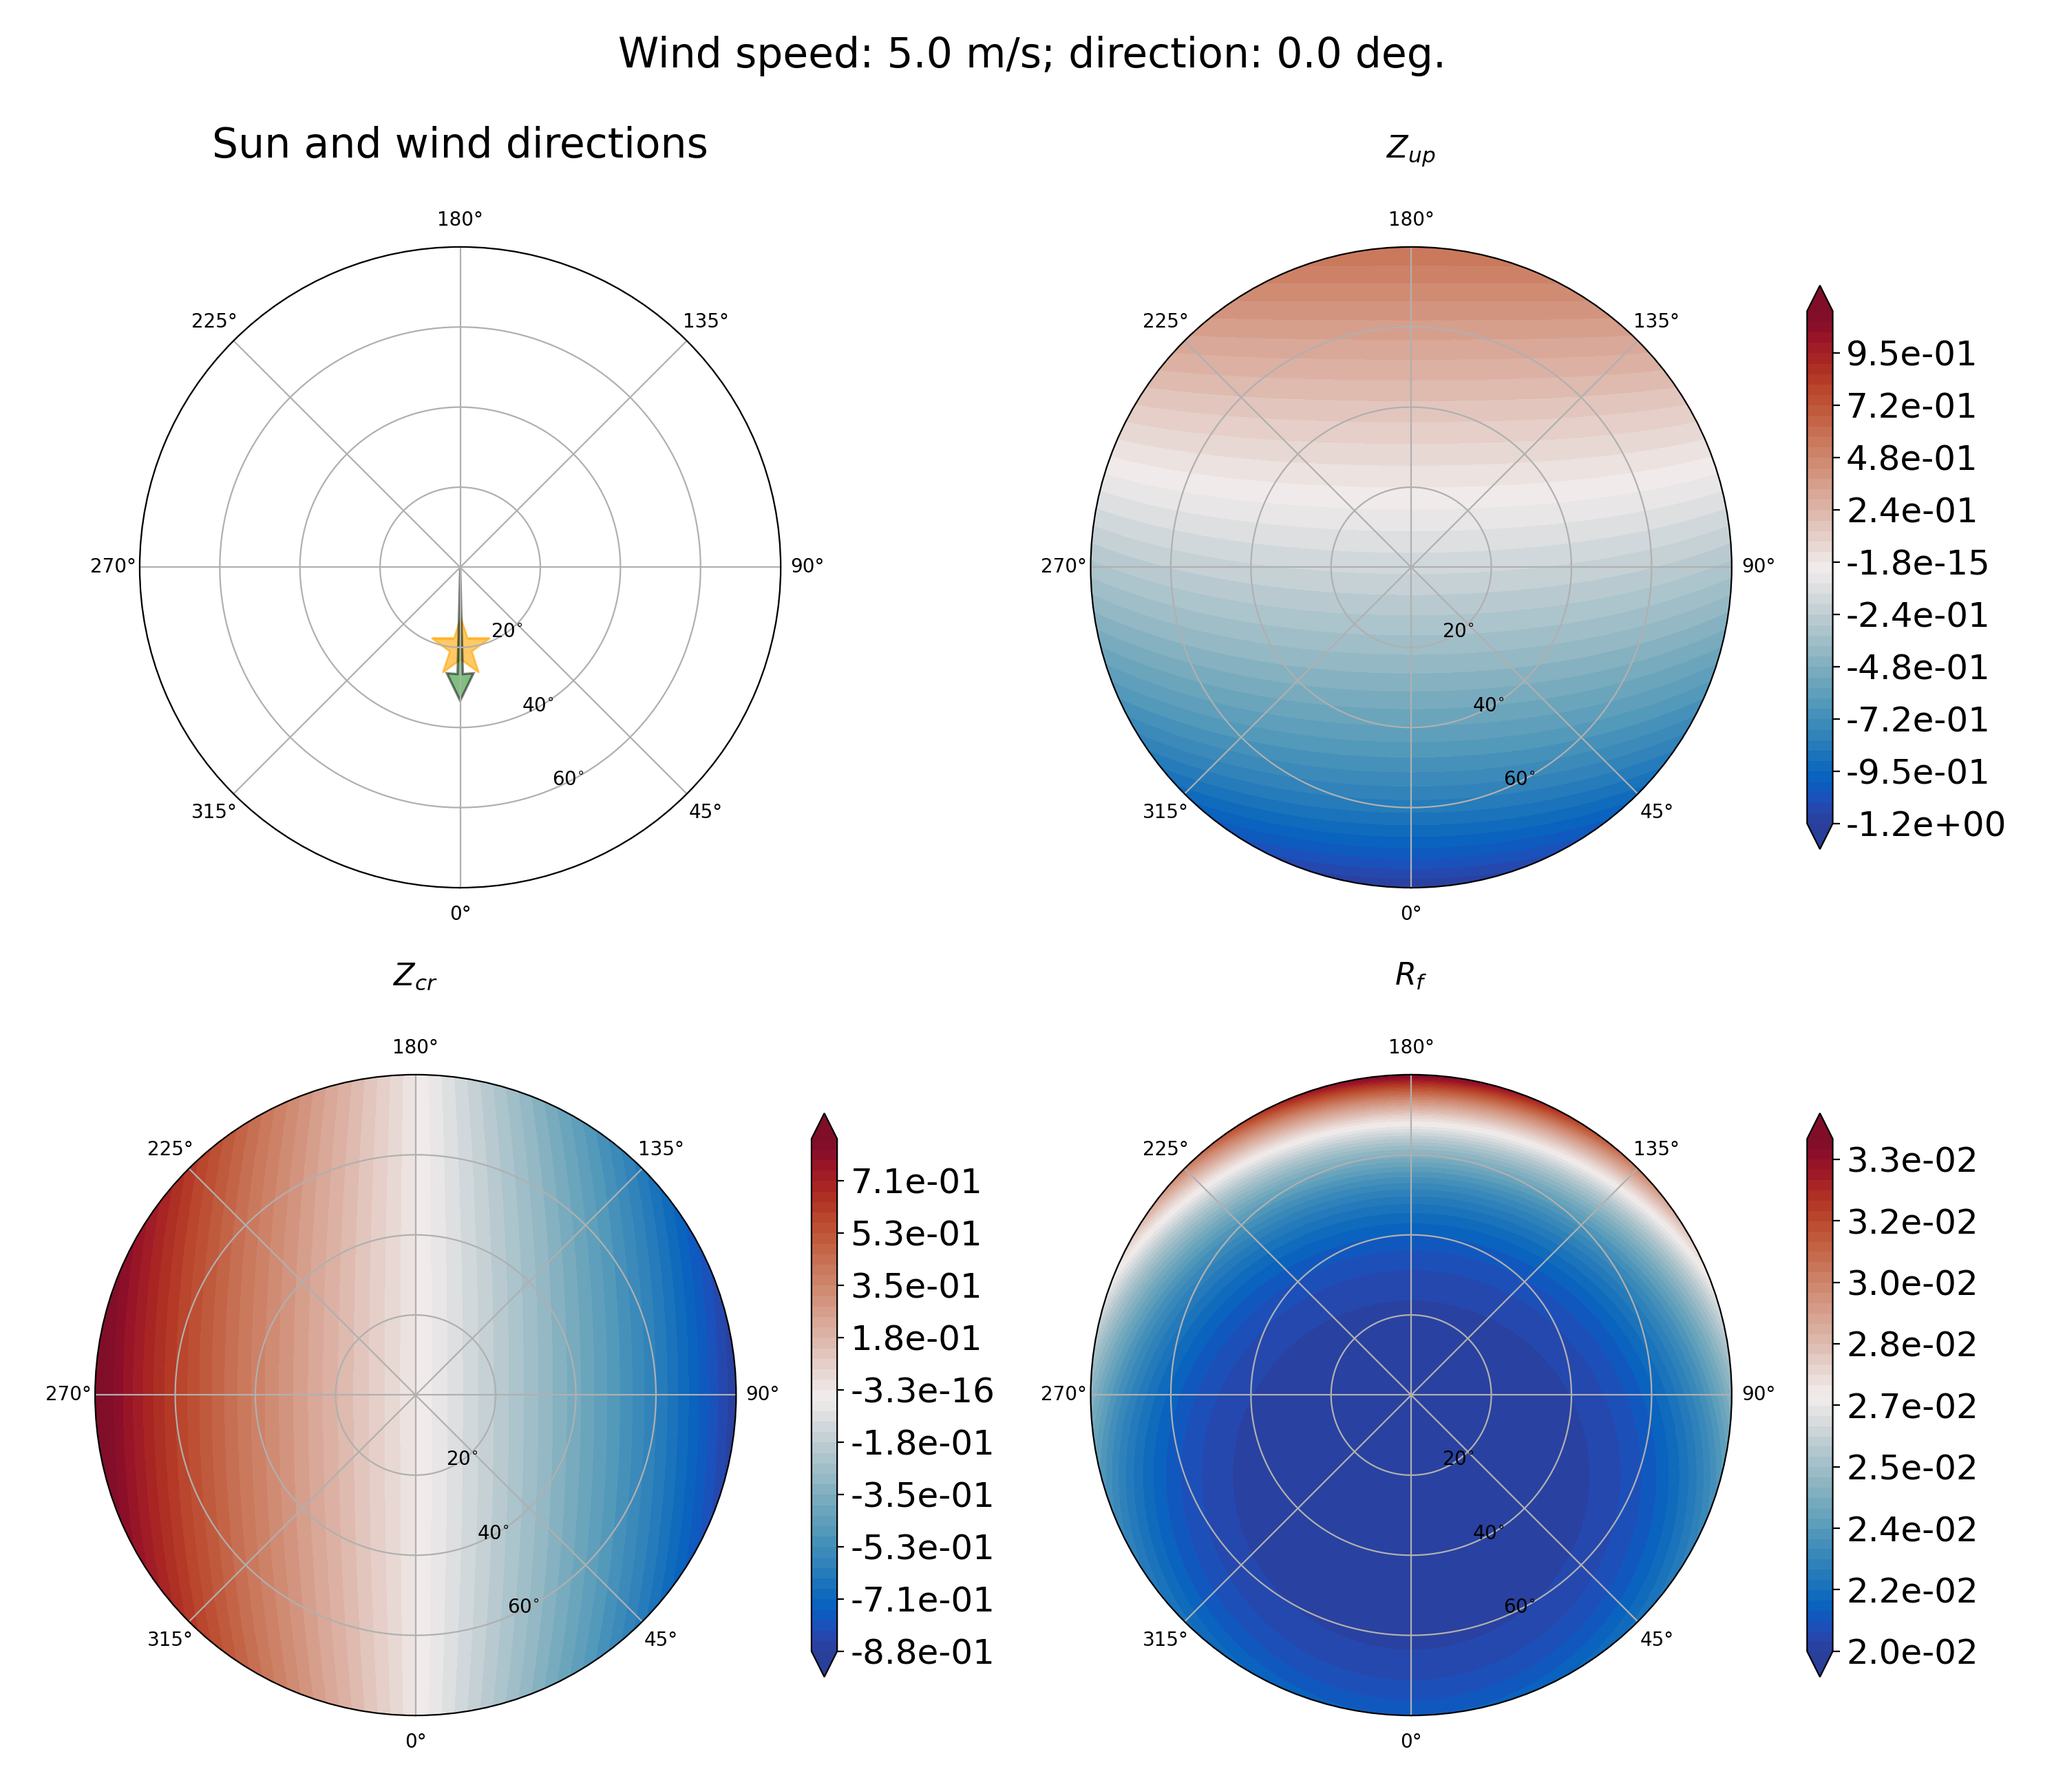
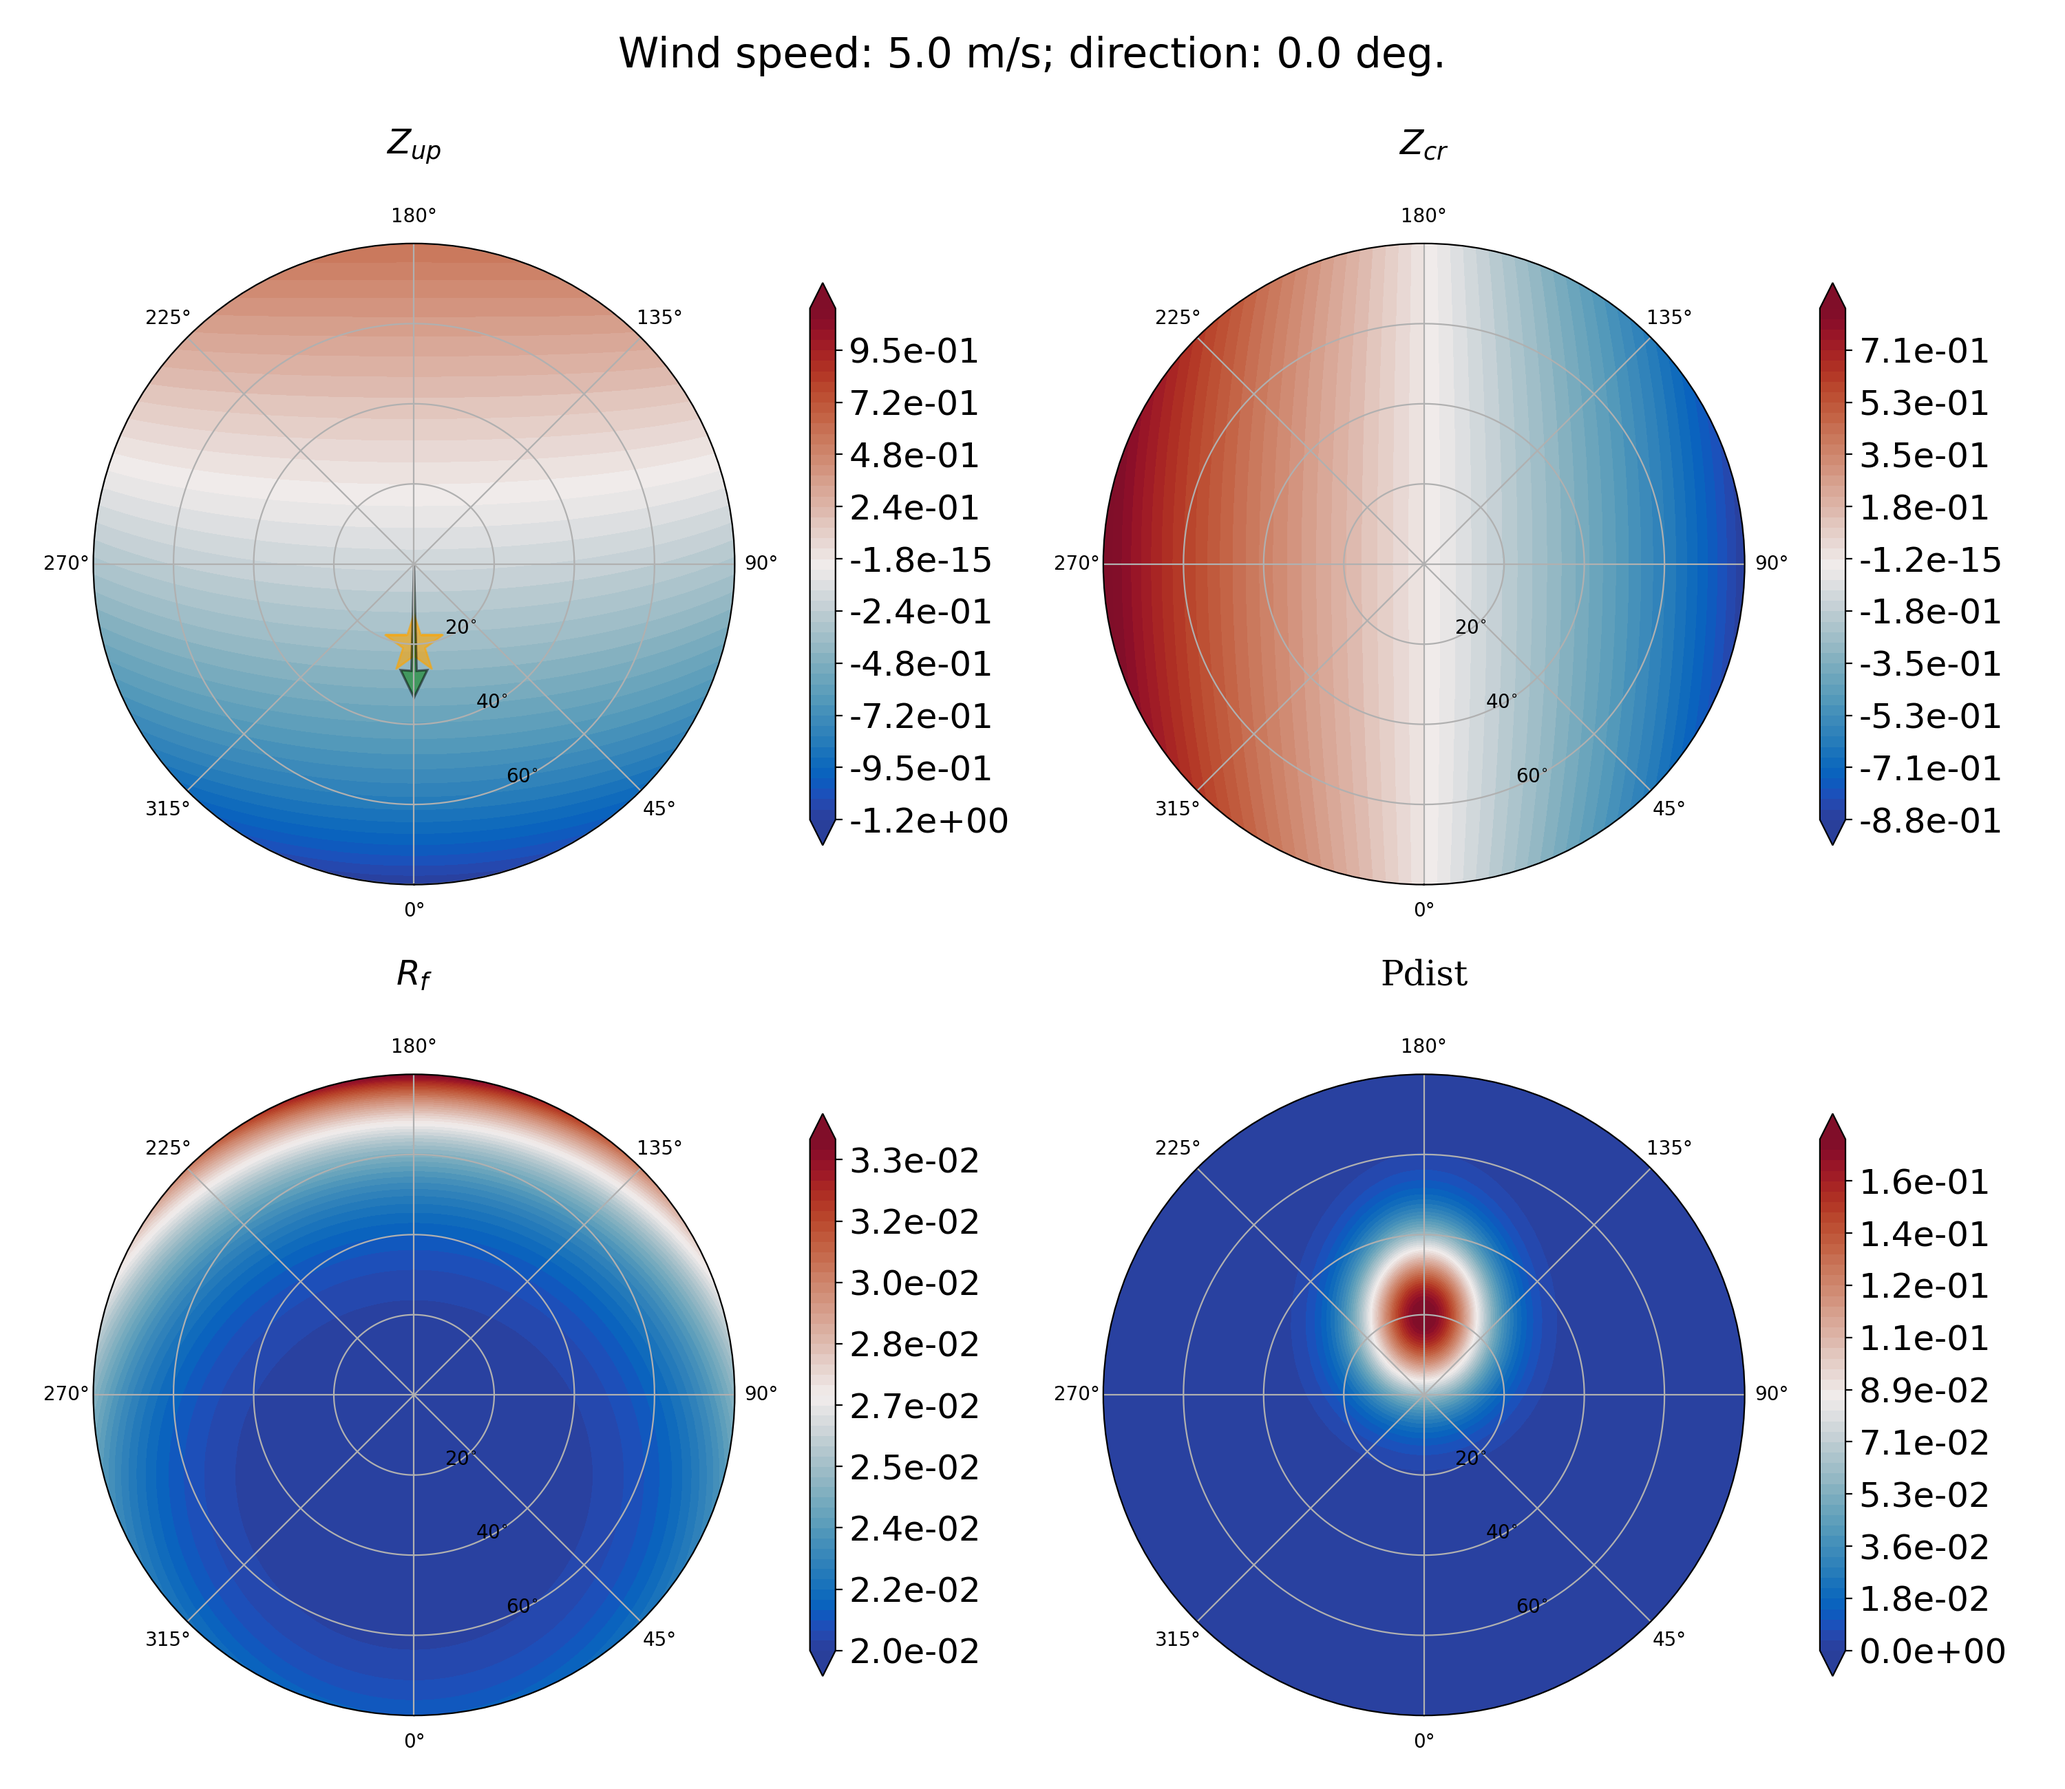
add examples for the --slope option

diff --git a/coxmunk/visu.py b/coxmunk/visu.py
@@ -108,8 +108,13 @@ def main():
     vza = np.linspace(0, 80, 41)
     azi = np.linspace(0, 360, 181)
     Nvza, Nazi = len(vza), len(azi)
-
-    data = np.zeros((Nazi, Nvza, 3))
+    if slope:
+        titles = ('$Z_{up}$', '$Z_{cr}$', '$R_f$','Pdist')
+        N = 4
+    else:
+        titles = ('I', 'Q', 'U')
+        N=3
+    data = np.zeros((Nazi, Nvza, N))
 
     for i in range(Nvza):
         for j in range(Nazi):
@@ -120,13 +125,36 @@ def main():
     # plotting section
     # ------------------
 
-    if slope:
-        titles = ('$Z_{up}$', '$Z_{cr}$', '$R_f$')
-    else:
-        titles = ('I', 'Q', 'U')
 
     fig, axs = plt.subplots(nrows=2, ncols=2, subplot_kw=dict(projection='polar'), figsize=(15, 13))
     axs = axs.ravel()
+
+    cmap_sym = True
+
+    if slope:
+        for i, title in enumerate(titles):
+            cmap = cm.tools.crop_by_percent(cm.cm.balance, 20, which='both', N=None)
+            if title in ('Pdist','$R_f$', 'Q', 'I'):
+                cmap_sym = False
+
+            plot().add_polplot(axs[i], vza, azi, data[..., i].T, title=title, cmap=cmap, cmap_sym=cmap_sym)
+    else:
+        axs[0].set_title('Sun and wind directions', pad=30)
+
+
+        for i, title in enumerate(titles):
+            cmap = cm.tools.crop_by_percent(cm.cm.balance, 20, which='both', N=None)
+            if title == 'I':
+                cmap = plt.cm.Spectral_r  #gist_stern_r
+            if title in ('Pdist','$R_f$', 'Q', 'I'):
+                cmap_sym = False
+
+            plot().add_polplot(axs[i + 1], vza, azi, data[..., i].T, title=title, cmap=cmap, cmap_sym=cmap_sym)
+        # I=data[...,0].T
+    # Q=data[...,1].T
+    # U=data[...,2].T
+    # DOP = np.sqrt(Q**2+U**2)#/I
+    # plot().add_polplot(axs[3], vza, azi, DOP, title='DOP', cmap=cmap)
     axs[0].scatter([0], [sza], marker='*', facecolor='orange', alpha=0.6, s=1000)
     plot().label_polplot(axs[0], yticks=[20., 40., 60., 80.],
                          ylabels=['$20^{\circ}$', '$40^{\circ}$', '$60^{\circ}$', ''])
@@ -135,23 +163,6 @@ def main():
     axs[0].arrow(wind_azi * np.pi / 180, 0, 0, l_arrow, alpha=0.5, width=0.05, head_width=0.25,
                  head_length=l_arrow / 4,
                  edgecolor='black', facecolor='green', lw=1.2)
-
-    axs[0].set_title('Sun and wind directions', pad=30)
-
-    cmap_sym = True
-    for i, title in enumerate(titles):
-        cmap = cm.tools.crop_by_percent(cm.cm.balance, 20, which='both', N=None)
-        if title == 'I':
-            cmap = plt.cm.Spectral_r  #gist_stern_r
-        if title in ('$R_f$', 'Q', 'I'):
-            cmap_sym = False
-
-        plot().add_polplot(axs[i + 1], vza, azi, data[..., i].T, title=title, cmap=cmap, cmap_sym=cmap_sym)
-    # I=data[...,0].T
-    # Q=data[...,1].T
-    # U=data[...,2].T
-    # DOP = np.sqrt(Q**2+U**2)#/I
-    # plot().add_polplot(axs[3], vza, azi, DOP, title='DOP', cmap=cmap)
     plt.suptitle(r'Wind speed: {:.1f} m/s; direction: {:.1f} deg.'.format(wind, wind_azi))
     plt.tight_layout(rect=[0.0, 0.0, 0.99, 0.95])
 

diff --git a/coxmunk/coxmunk.py b/coxmunk/coxmunk.py
@@ -184,7 +184,7 @@ class sunglint:
         #    print(vza*180/np.pi,azi*180/np.pi,Pdist_, np.exp(-5e-1 * (xi ** 2 + eta ** 2)) / (2. * np.pi * s_cr * s_up))
 
         if slope:
-            return [z_up, z_cr, Rf[0, 0]]
+            return [z_up, z_cr, Rf[0, 0],Pdist_]
         else:
             return [Iglint, Qglint, Uglint]  # ,Rf
 

diff --git a/README.md b/README.md
@@ -78,3 +78,14 @@ $ coxmunk 39 14.2 --stats bh2006 --wind_azi 75
 ```
 
 ![image_output](illustration/coxmunk_fig_39_14.2_bh2006_75.png)
+
+With the option `--slope` you can also check
+ the values of wave slopes upwind and crosswind,
+ the first term of the Fresnel matrix and the probability distribution function:
+
+```
+$ coxmunk 20 5 --stats bh2006 --wind_azi 60 --slope
+```
+
+![image_output](illustration/coxmunk_fig_sza20_ws5_wazi60_bh2006--slope.png)
+
